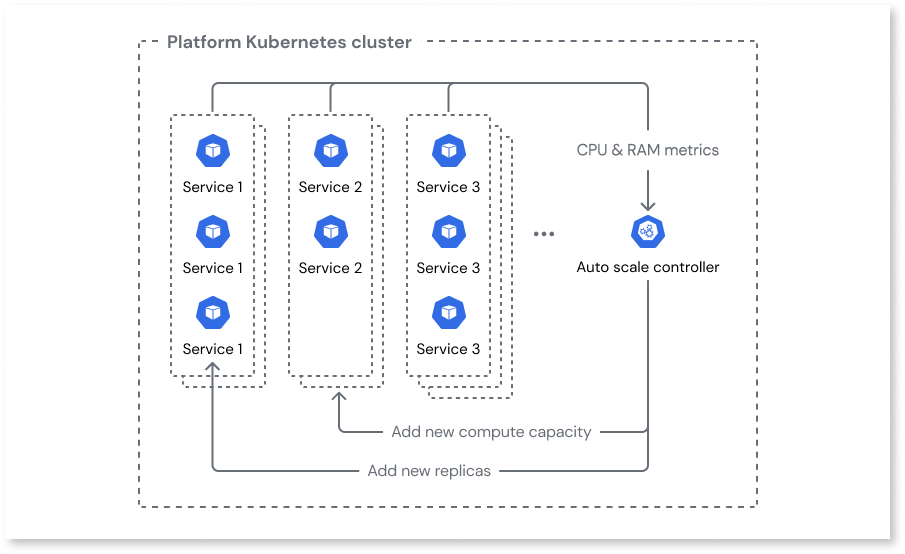
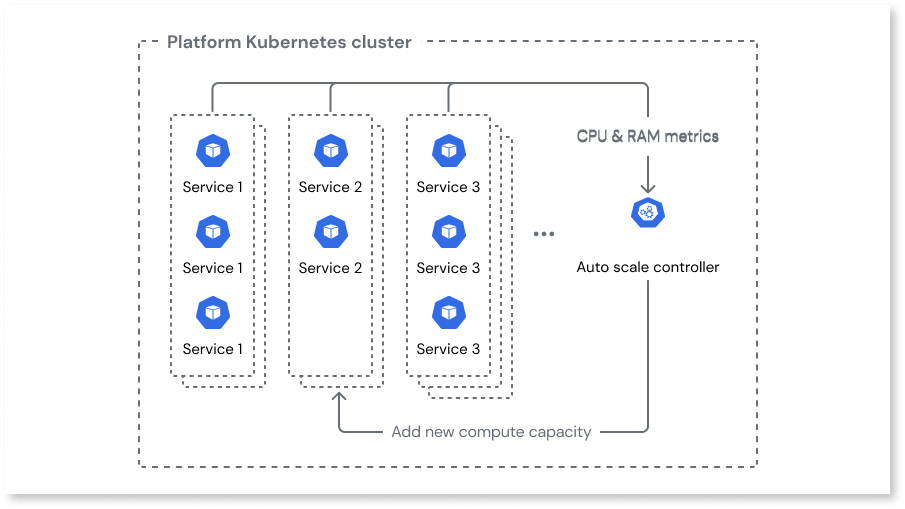
Simplify "auto scaling" in architecture/intro.md

diff --git a/src/eap/architecture/intro.md b/src/eap/architecture/intro.md
@@ -73,10 +73,7 @@ The following diagram shows how auto scaling works inside the Platform cluster.
 
 ![Autoscaling of the development Platform](images/architecture-platform-k8s-diag.png "Autoscaling of the development Platform") 
 
-The **auto scale controller** monitors the CPU and RAM usage of each running service. It continuously checks the usage against the cluster compute capacity allocated to each service. It can:
-
-* Horizontally scale - Replicates the running service to optimize the use of the allocated compute capacity.
-* Vertically scale - Allocates additional cluster compute capacity to the running service if the CPU and RAM usage for the service exceeds the defined threshold.
+The **auto scale controller** monitors the CPU and RAM usage of each running service. It continuously checks the usage against the cluster compute capacity allocated and allocates additional capacity if the CPU and RAM usage exceeds a defined threshold.
 
 The auto scale controller makes the adjustment in real time, with no user interaction required.
 
@@ -92,16 +89,13 @@ The auto scale controller replicates app containers running in each cluster of e
 
 ##### Auto scaling
 
-The compute capacity for each app container running in each Runtime stage is scalable. This lets each app scale independently.
+The compute capacity for each app container running in each non-Development Runtime stage is scalable. This lets each app scale independently.
 
 The following diagram illustrates how auto scaling works inside the Runtime cluster.
 
 ![Autoscaling of the runtime apps](images/architecture-runtime-scale-diag.png "Autoscaling of the runtime apps") 
 
-The **auto scale controller** monitors the CPU and RAM usage of each app container. It continuously checks the usage against the cluster compute capacity allocated to each app container. It can: 
-
-* Horizontally scale - Replicates the app container to optimize the use of the allocated compute capacity and distribution across availability zones.
-* Vertically scale - Allocates additional cluster compute capacity to the app container if the CPU and RAM usage for the app container exceeds a defined threshold.
+The **auto scale controller** monitors the CPU and RAM usage of each app container. It continuously checks the usage against the cluster compute capacity allocated and allocates additional capacity if the CPU and RAM usage exceeds a defined threshold.
 
 The auto scale controller makes the adjustment in real time, with no user interaction required.
 
